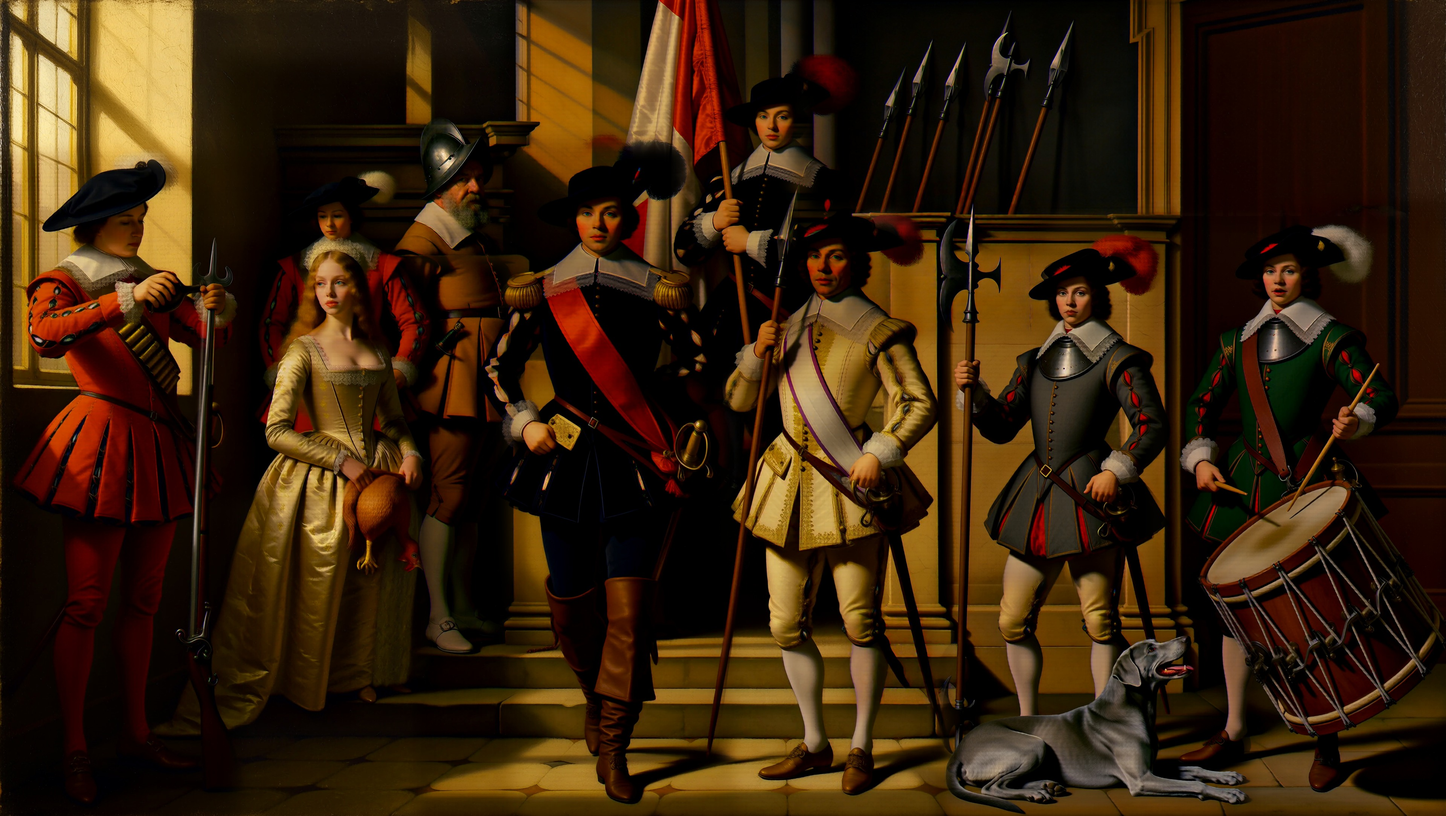
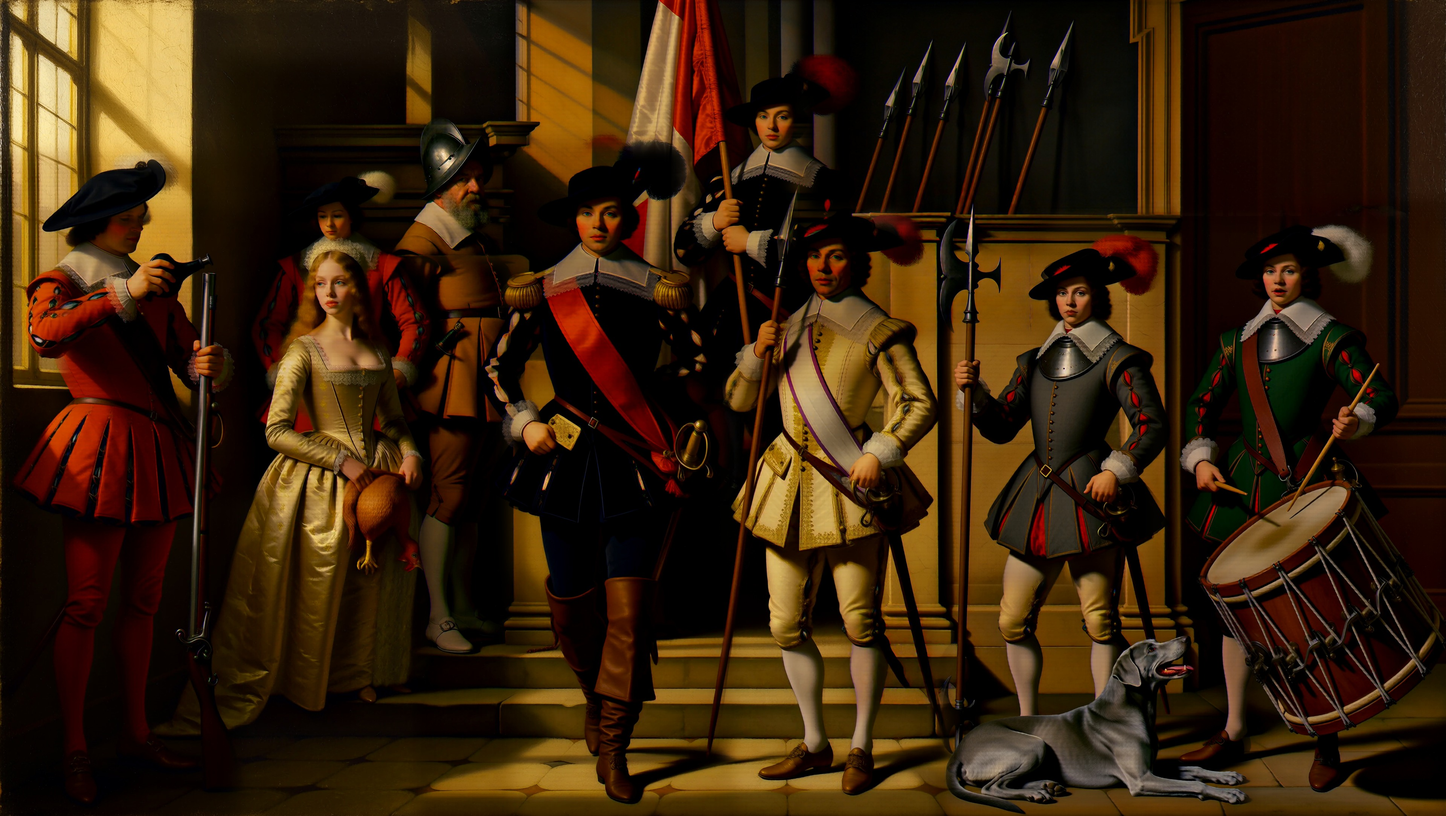
nachtwacht round 5: musketeer hands and muzzle

Changed region(s): [[0.0312, 0.2472, 0.1875, 0.4945]]

diff --git a/benchmark/nachtwacht/build.py b/benchmark/nachtwacht/build.py
@@ -71,6 +71,8 @@ PLAN = [
     ("sergeant_body","inpaint",(1600, 1000, 1904, 3072),  ["palette.png"],      1.0,  "sergeant_body.txt"), # the head pass ended in a straight cut with nothing in front
     ("pikes3",    "inpaint",   (3040, 0, 5216, 800),      ["palette.png"],      0.8,  "pikes3.txt"),     # pikes2 FAILED (composed a gallery of militia in the empty box); region reverted first, then 0.8 keeps the wall
     ("pikes4",    "inpaint",   (3440, 704, 3920, 1216),   ["palette.png"],      0.8,  "pikes4.txt"),     # the shafts stopped on the cornice at the box edge; carry them down
+    # --- round 5, local: hands and props ---
+    ("musk_hands","inpaint",   (256, 832, 1008, 1504),    ["palette.png"],      1.0,  "musk_hands.txt"), # six fingers on the flask hand; musket had a fork head on a musket body
 ]
 LOCAL_START = "halberdier"       # passes from here on were rendered locally in windows
 WINDOW_MP = 4.0

diff --git a/benchmark/nachtwacht/README.md b/benchmark/nachtwacht/README.md
@@ -2,7 +2,7 @@
 
 The stress test the plate benchmark could not be: an image no single prompt produces, on any
 tool. A 5440x3072 militia group portrait in the manner of the Night Watch, painted from a blank
-canvas by MiniMax H3 in 34 passes on one canvas. Every figure, prop and the lettered shield is its
+canvas by MiniMax H3 in 35 passes on one canvas. Every figure, prop and the lettered shield is its
 own `--inpaint` pass at full resolution; nothing outside a pass's box is ever regenerated.
 
 ![final](out/final_4k.jpg)
@@ -111,6 +111,14 @@ Two more rules from this round. **An empty box is a blank page**: at denoise 1.0
 new picture in it; to add props to bare wall use 0.8 so the wall itself survives. **Anything inside a
 box is fair game**, references or not; plan the sequence so that whatever a big box destroys gets
 its own pass afterwards, back to front.
+
+## Round 5: hands
+
+A 1:1 audit of every hand on the canvas found one with six fingers: the musketeer's flask hand,
+from the original pod pass. The same figure's weapon had a musket lock and stock at the bottom and
+a fork head at the top. One 752x672 box at denoise 1.0 over both hands and the muzzle fixed both
+(five fingers, plain muzzle, flask tipped over it); the bandolier that crossed the box went with it.
+Every other hand (ensign, captain, lieutenant, halberdier, drummer, girl) counted five.
 
 ## What it proved, and what it did not
 

diff --git a/README.md b/README.md
@@ -121,7 +121,7 @@ Two rules from the [benchmark](benchmark/README.md#3-detail-pass---detail--works
 
 Six scripted stress tests, pinned seeds, shipped inputs: [`benchmark/`](benchmark/README.md). On a 5090 at 4 MP, **8 of 8 seeds render every line of a five-tier plate down to 23-px caps at ≥0.96 character accuracy**; lettering holds to ~17 px caps and starts inventing characters at 12 px. The one miss in 40 lines is a single digit swap (reroll). Also measured: what survives outside the edit (large structure yes, brick texture no), the neon sign's pavement reflection (ΔE 21, local) versus its glow on brick (barely measurable), and seven second-pass candidates against one wrong digit — tiling fails, `--inpaint` and a latent-upscale refine fix it.
 
-**Stress test:** a 16 MP group painting built from a blank canvas by H3 alone in 34 masked passes (15 on a pod, 19 local), every pass leaving the rest of the canvas at SSIM 1.000: [`benchmark/nachtwacht/`](benchmark/nachtwacht/README.md).
+**Stress test:** a 16 MP group painting built from a blank canvas by H3 alone in 35 masked passes (15 on a pod, 20 local), every pass leaving the rest of the canvas at SSIM 1.000: [`benchmark/nachtwacht/`](benchmark/nachtwacht/README.md).
 
 ![nachtwacht](benchmark/nachtwacht/out/final_4k.jpg)
 
